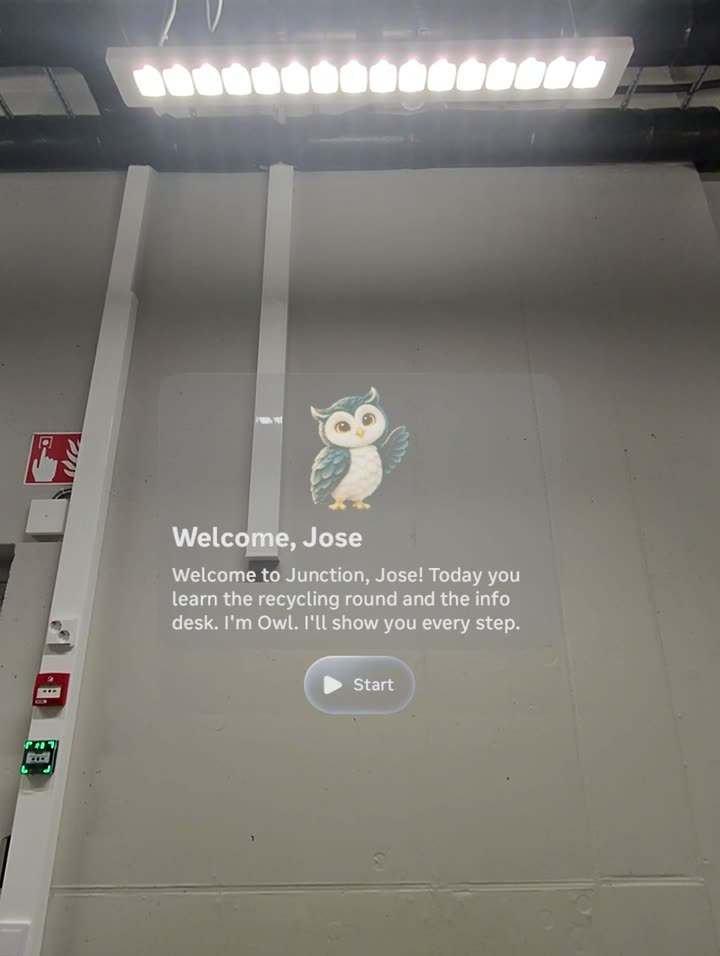
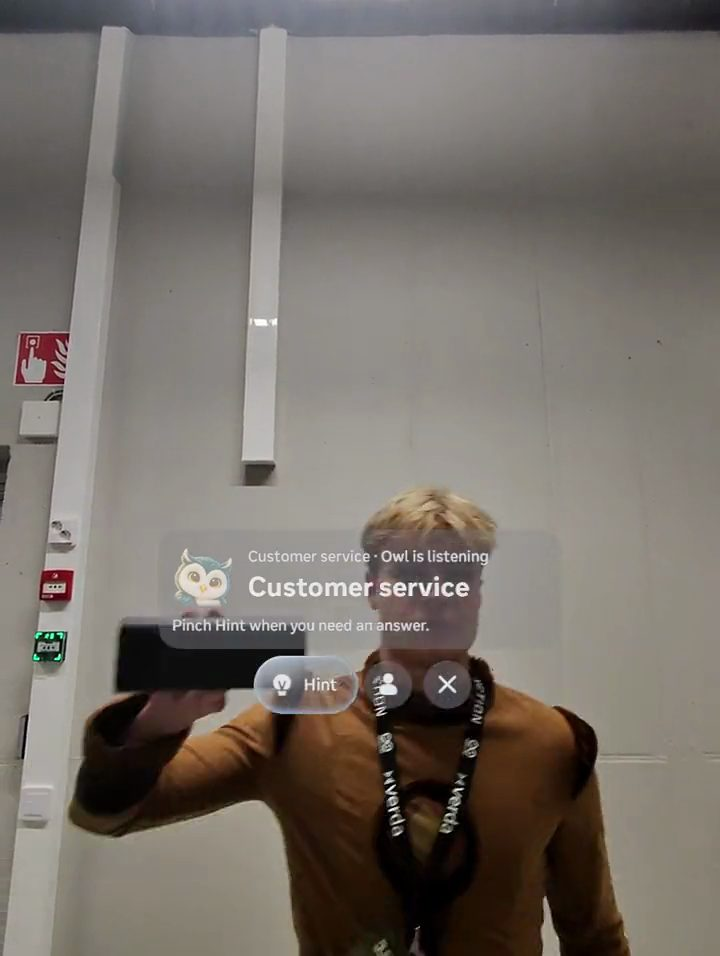
owl-lens-site: The Mika clip starts as the person comes into view
The second clip starts at 14.2 s (a media fragment, the file stays as filmed), its progress bar counts from there, and its poster shows the person. The "Built for Meta Ray-Ban Display" eyebrow and the "Clip n of 3" tag are gone.

diff --git a/apps/owl-lens-site/index.html b/apps/owl-lens-site/index.html
@@ -142,7 +142,6 @@ button { font: inherit; color: inherit; }
     <a class="brand" href="#top" id="top"><img src="img/logo-light.svg" alt="" width="28" height="28"><span>OwlBoarding</span></a>
 
     <div class="hero">
-      <span class="eyebrow">Built for Meta Ray-Ban Display</span>
       <h1>Onboarding, right in the lens.</h1>
       <p class="lede">A new worker puts on the glasses. Owl shows every step, checks the work and calls a colleague when it matters.</p>
       <button class="cta" id="enter" type="button">
@@ -162,7 +161,6 @@ button { font: inherit; color: inherit; }
         Back to the glasses
       </button>
       <div class="caption">
-        <span class="tag" id="c-tag">Clip 1 of 3</span>
         <h2 id="c-title">Welcome, Jose. Today: the recycling round.</h2>
         <p class="sub" id="c-sub"></p>
         <ol class="chips live" id="chips"></ol>
@@ -199,7 +197,7 @@ button { font: inherit; color: inherit; }
 // ---------------- the clips ----------------
 const CLIPS = [
   { id: 'recycling-round', title: 'Welcome, Jose. Today: the recycling round.', sub: 'Owl greets the new crew member and walks through the round step by step.' },
-  { id: 'calling-mika', title: 'Unsure? Call Mika.', sub: 'One tap and a colleague sees exactly what Jose sees.' },
+  { id: 'calling-mika', start: 14.2, title: 'Unsure? Call Mika.', sub: 'One tap and a colleague sees exactly what Jose sees.' },
   { id: 'hacker-question', title: 'A hacker asks. Owl knows.', sub: 'Answers come from the crew handbook, right where the question is asked.' },
 ];
 
@@ -221,13 +219,13 @@ CLIPS.forEach((c, i) => {
   li.firstChild.onclick = () => setClip(i, true);
   chips.appendChild(li);
 });
-const src = (c) => `media/${c.id}-${tall.matches ? 'tall' : 'wide'}.mp4`;
+// `start` skips the first seconds of a recording (a media fragment, so the file stays as filmed).
+const src = (c) => `media/${c.id}-${tall.matches ? 'tall' : 'wide'}.mp4${c.start ? `#t=${c.start}` : ''}`;
 function setClip(i, play) {
   clip = (i + CLIPS.length) % CLIPS.length;
   const c = CLIPS[clip];
   vid.poster = `media/${c.id}.jpg`;
   vid.src = src(c);
-  $('c-tag').textContent = `Clip ${clip + 1} of ${CLIPS.length}`;
   $('c-title').textContent = c.title;
   $('c-sub').textContent = c.sub;
   [...chips.querySelectorAll('button')].forEach((b, k) => {
@@ -239,7 +237,8 @@ function setClip(i, play) {
 vid.addEventListener('ended', () => setClip(clip + 1, true));
 vid.addEventListener('timeupdate', () => {
   const bar = chips.children[clip]?.querySelector('span');
-  if (bar && vid.duration) bar.style.transform = `scaleX(${vid.currentTime / vid.duration})`;
+  const from = CLIPS[clip].start || 0;
+  if (bar && vid.duration) bar.style.transform = `scaleX(${clamp01((vid.currentTime - from) / (vid.duration - from))})`;
 });
 tall.addEventListener('change', () => { const t = vid.currentTime; vid.src = src(CLIPS[clip]); vid.currentTime = t; if (wantPlay) vid.play().catch(() => {}); });
 setClip(0, false);
